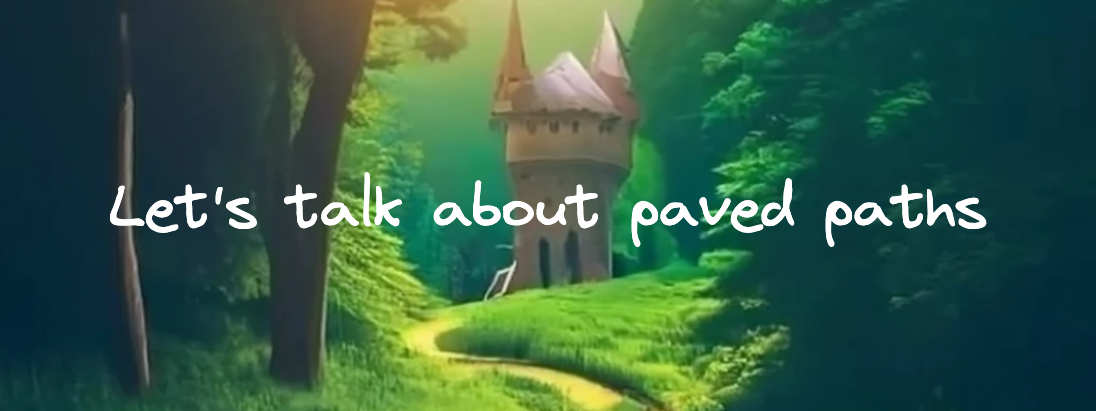
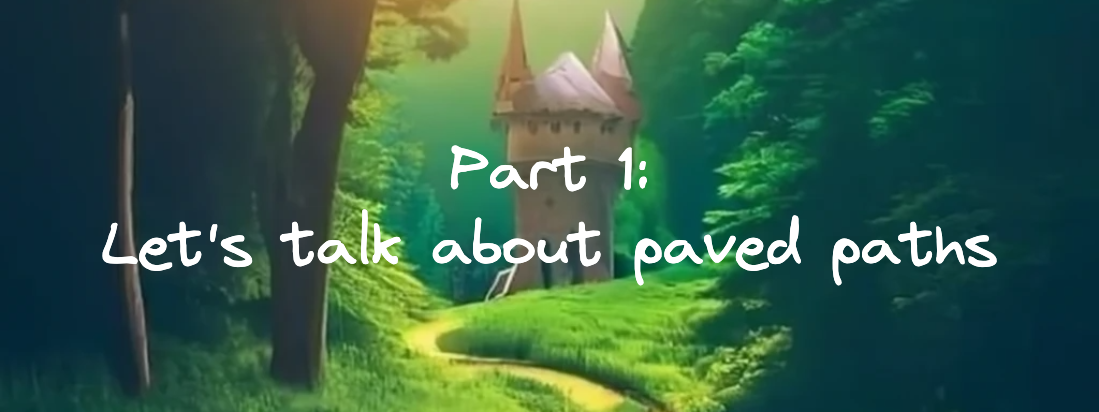
refactor: add parts to the post

Changed region(s): [[0.0931, 0.3504, 0.9307, 0.7007]]

diff --git a/site/content/posts/2023-05-01-lets-talk-about-paved-paths/index.md b/site/content/posts/2023-05-01-lets-talk-about-paved-paths/index.md
@@ -1,5 +1,5 @@
 ---
-title: "Let's Talk About Paved Paths"
+title: "Paved Paths Series - Part 1 - Let's Talk About Paved Paths"
 subtitle: ""
 date: 2023-04-30T12:00:00+01:00
 lastmod: 2023-04-30T12:00:00+01:00
